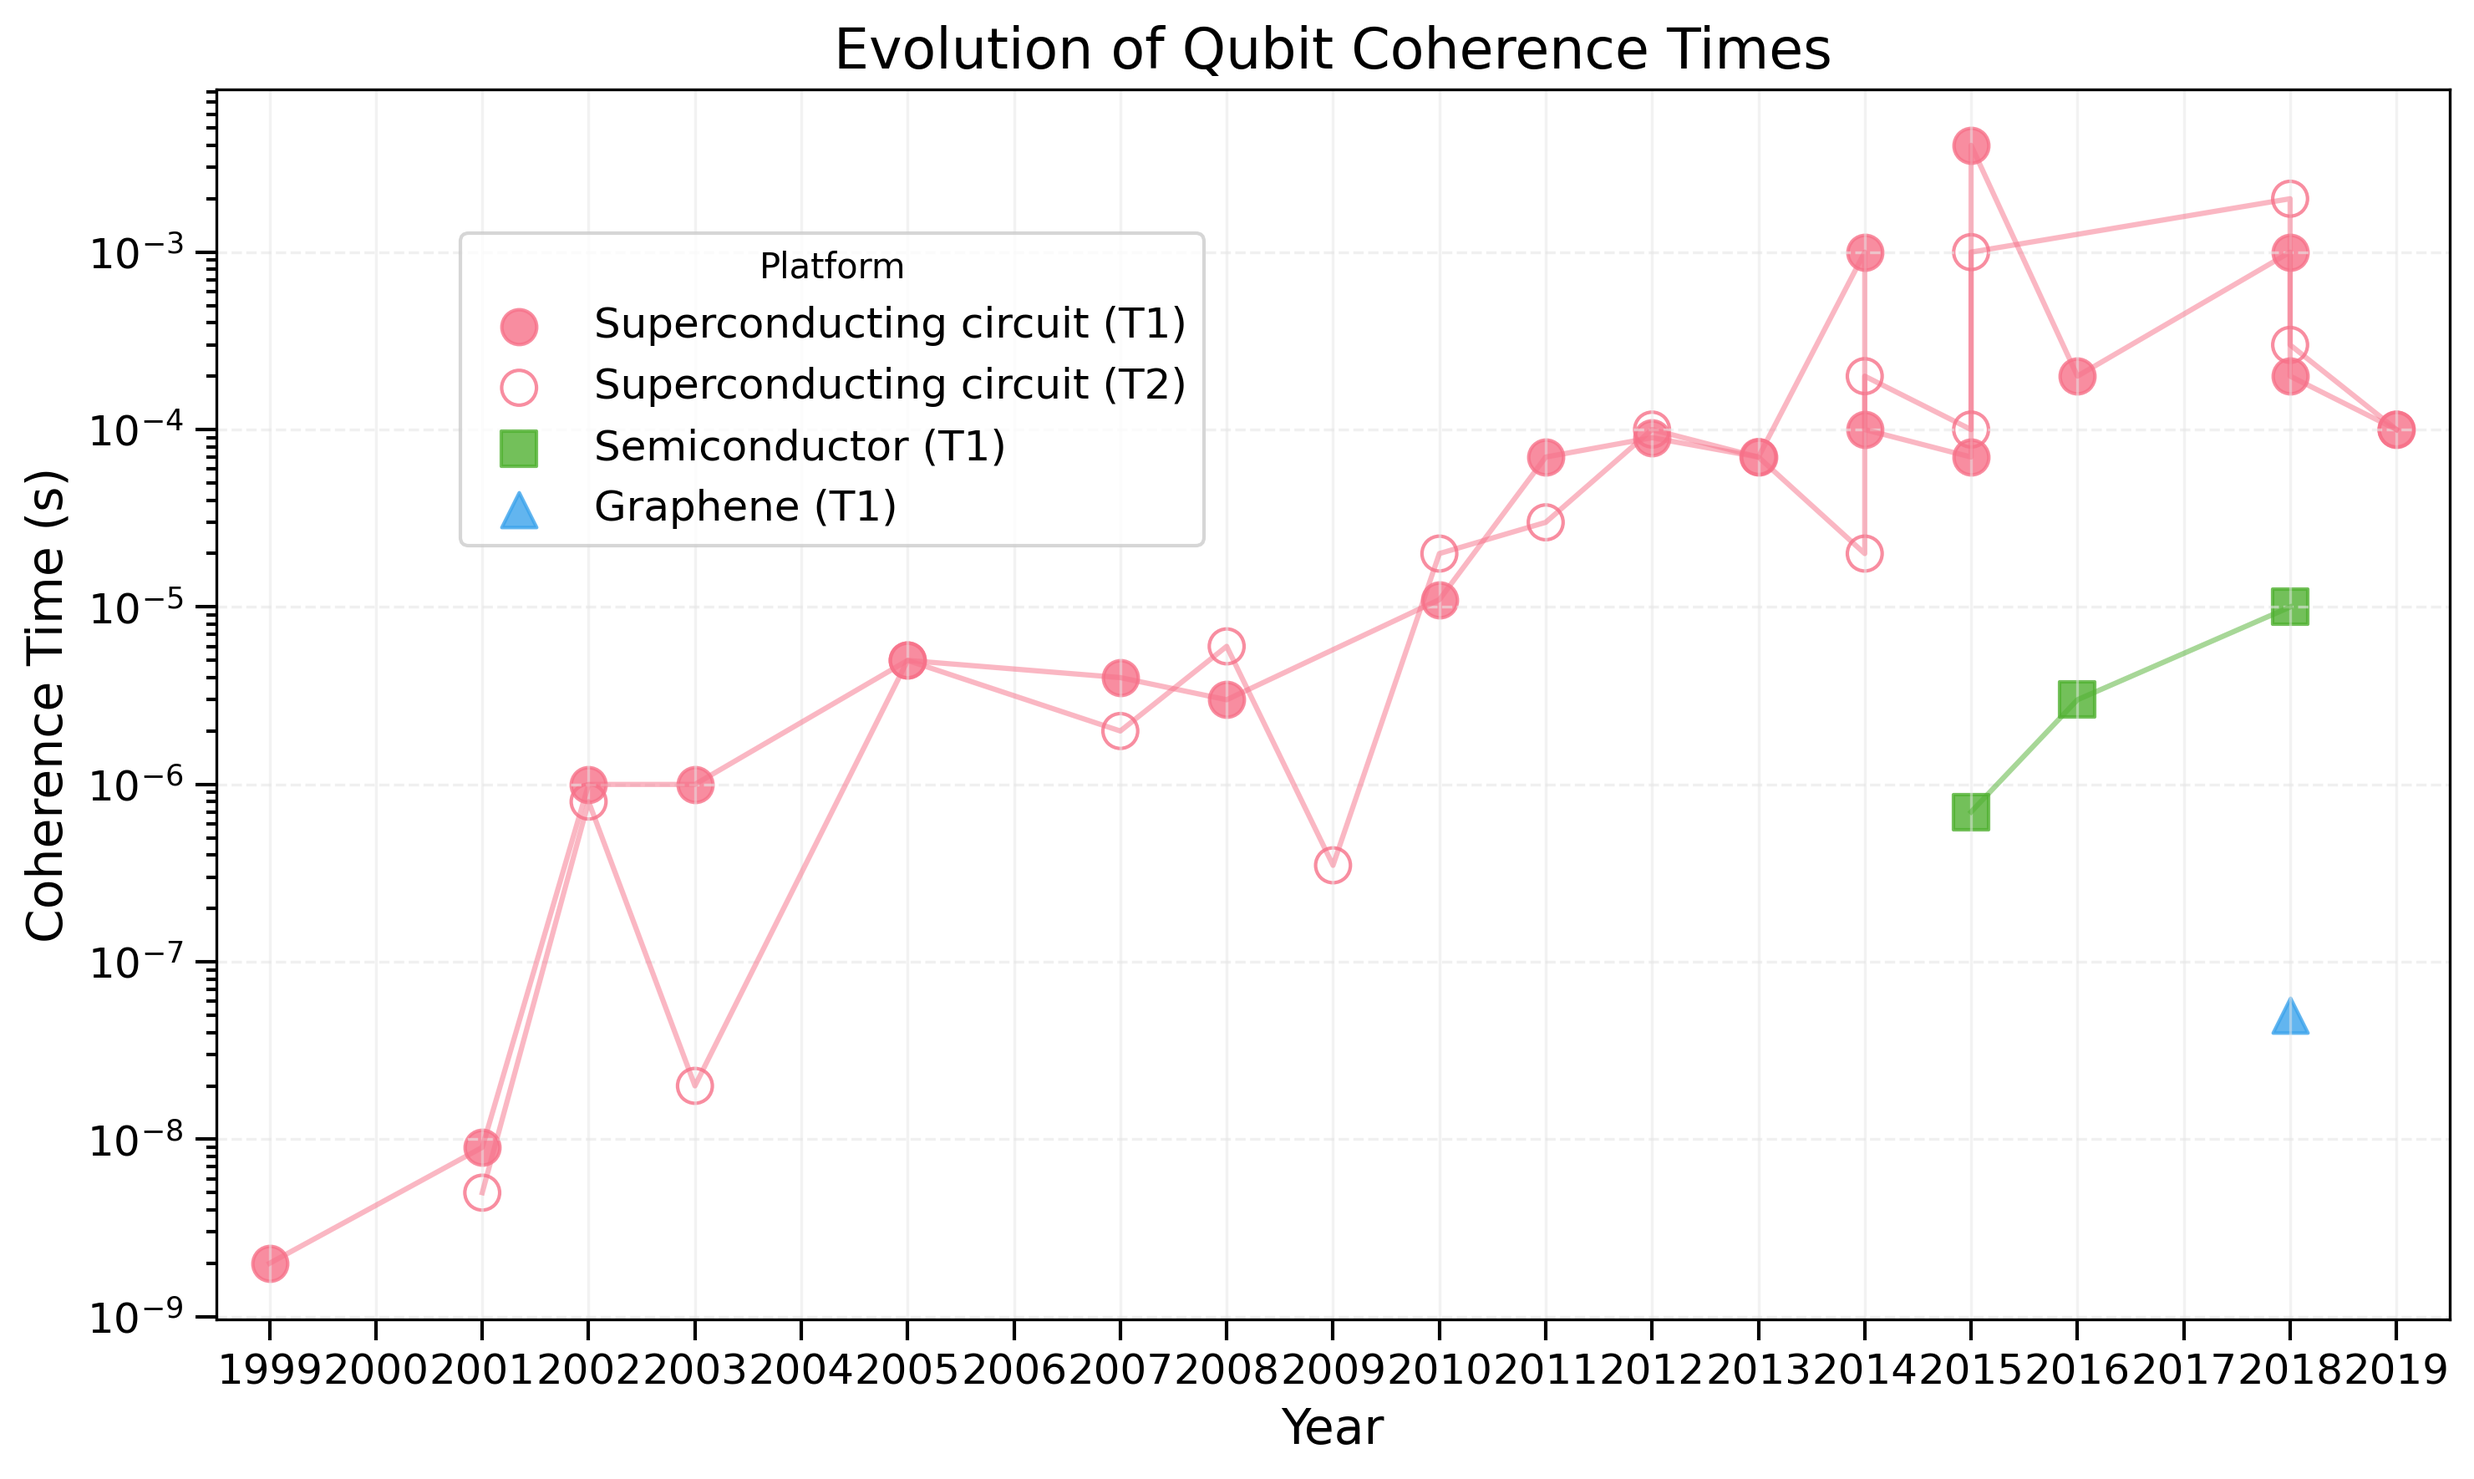
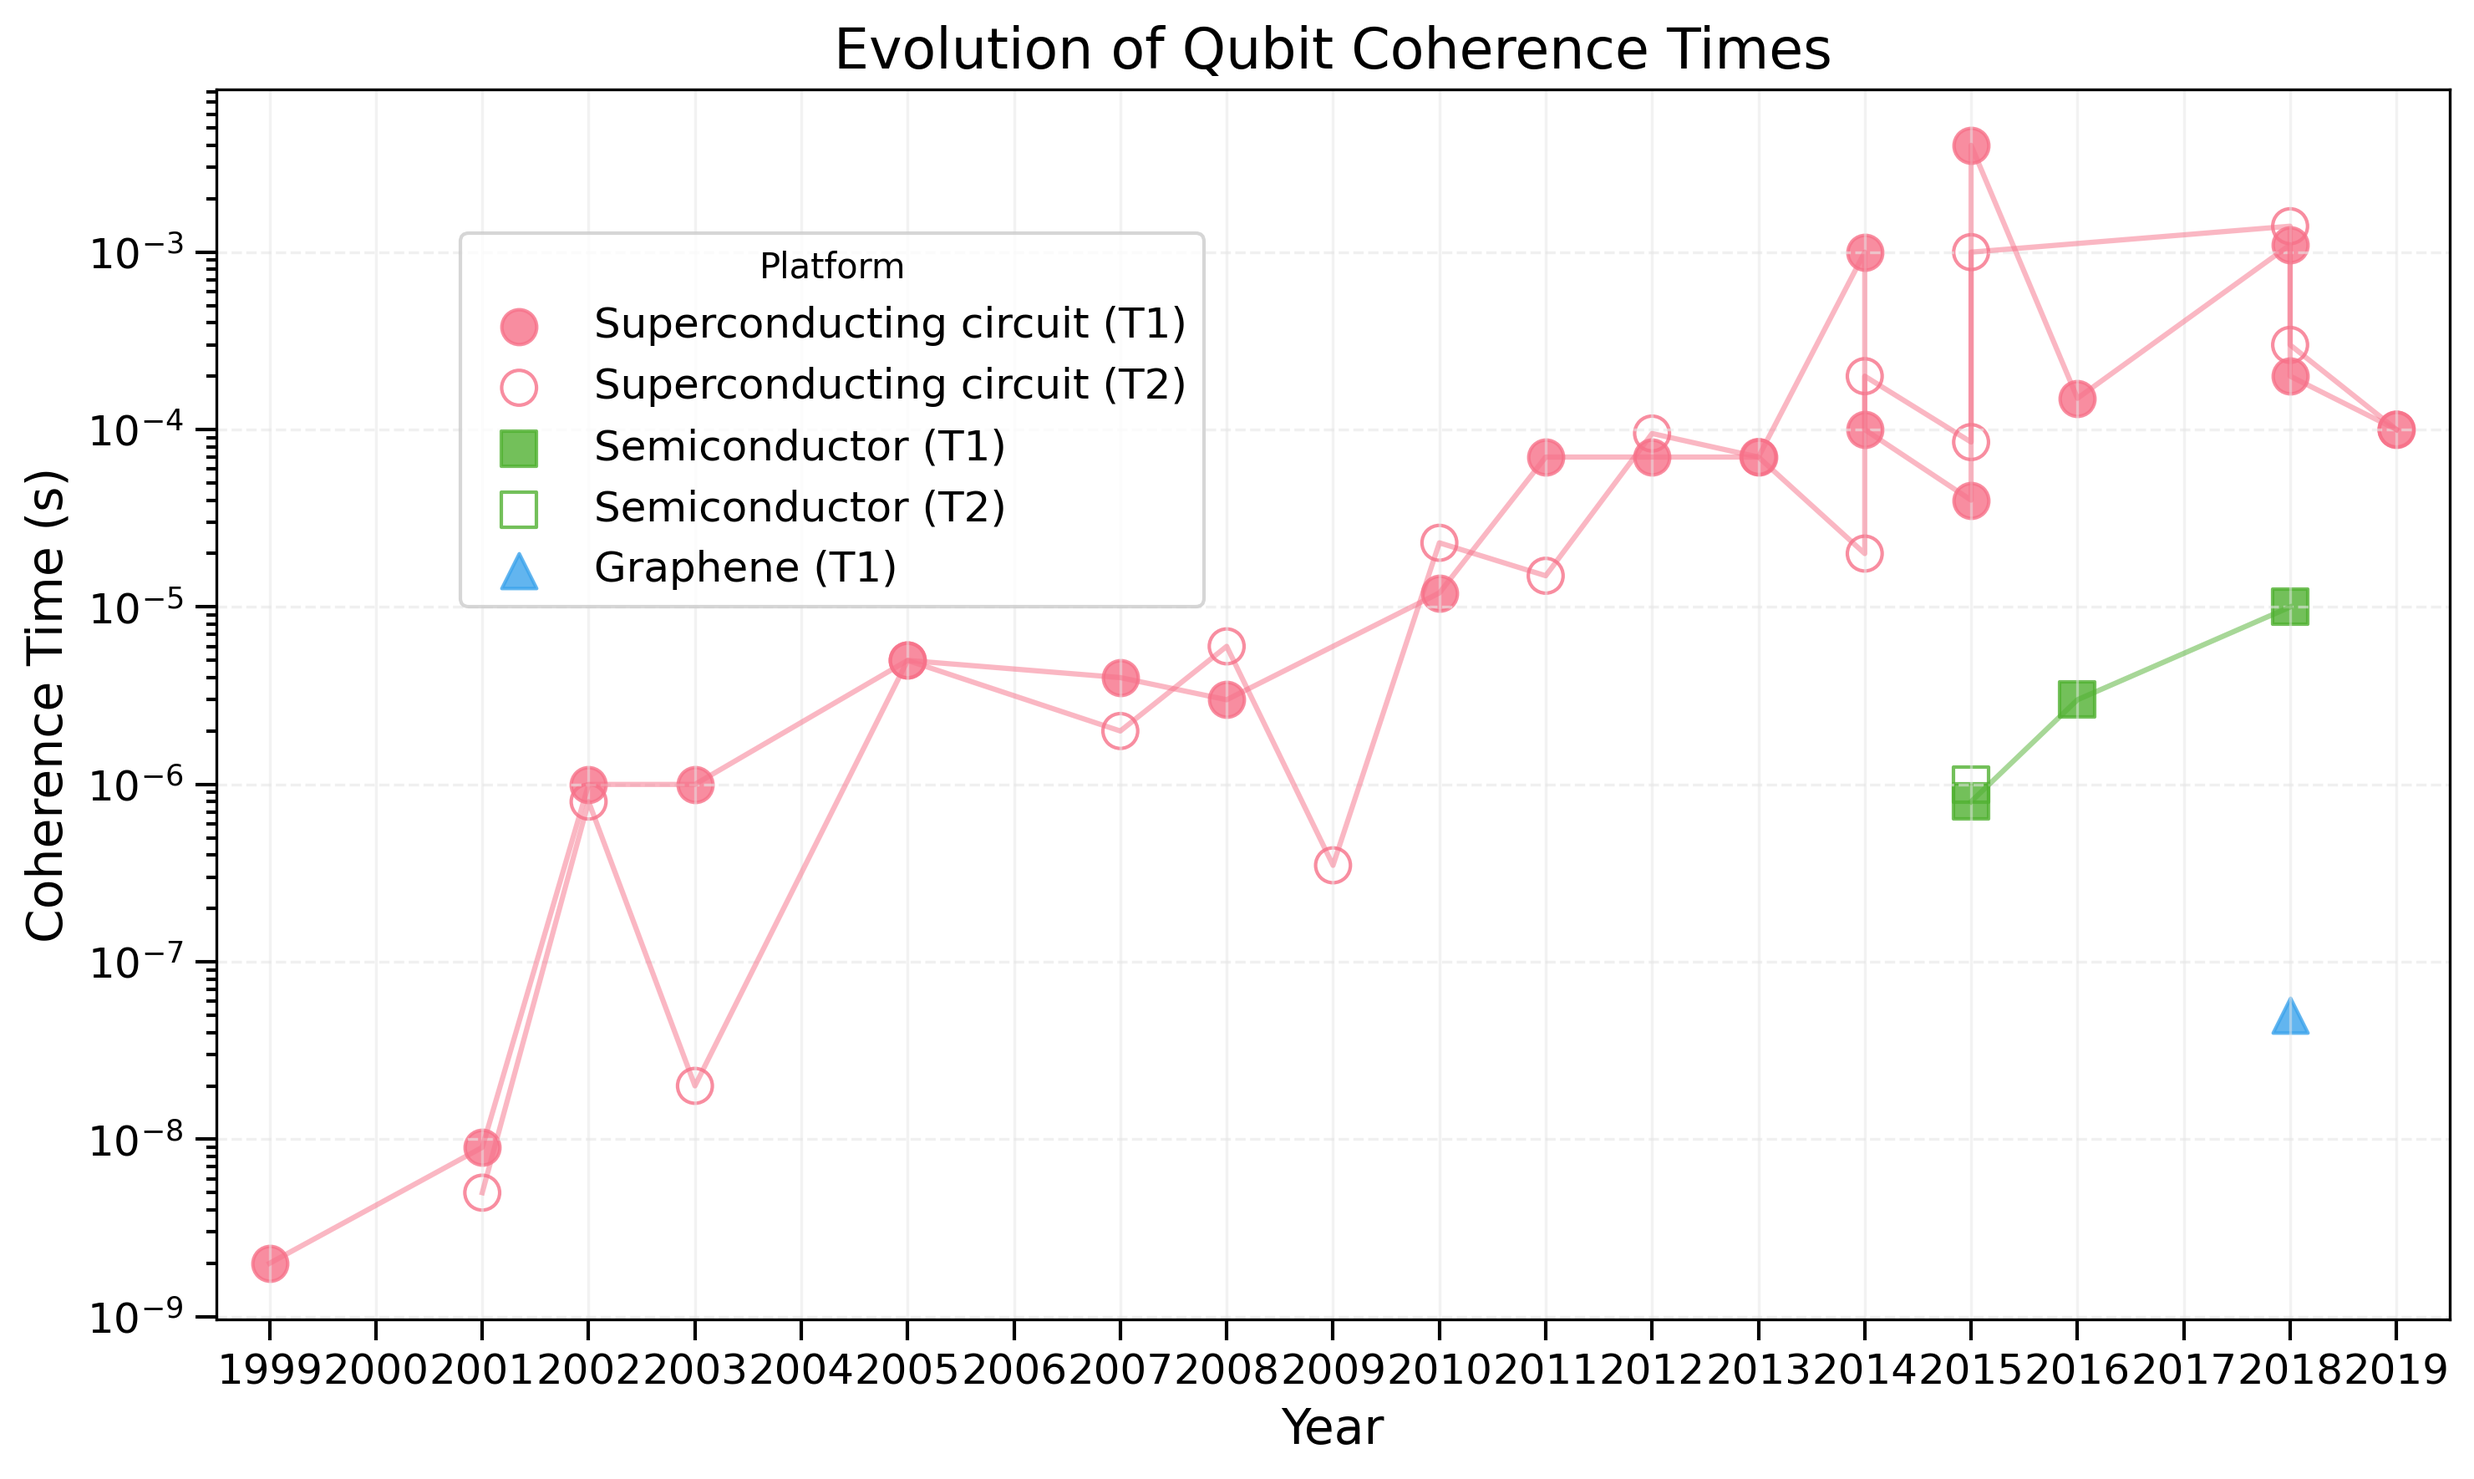
jekyll build from Action f7fac90ba4c098ca78a1a25834c8cfcf8a82fa06

diff --git a/README.md b/README.md
@@ -68,7 +68,7 @@ For more detailed information:
 ### Repetition Code
 
 - [Experimental Quantum Error Correction](https://arxiv.org/abs/quant-ph/9802018) (1998) - [3,1,3], d=1 on NMR
-- [Demonstration of Sufficient Control for Two Rounds of Quantum Error Correction in a Solid-State Ensemble Quantum Information Processor](https://arxiv.org/abs/1108.4842) (2011) - [3,1,3], d=1 on NMR
+- [Demonstration of sufficient control for two rounds of quantum error correction in a solid state ensemble quantum information processor](https://arxiv.org/abs/1108.4842) (2011) - [3,1,3], d=1 on NMR
 - [Experimental Repetitive Quantum Error Correction](https://jubarreiro.physics.ucsd.edu/files/Schindler-Science-332-1059-1061.pdf) (2011) - [3,1,3], d=1 on Ion traps
 - [Experimental quantum error correction with high fidelity](https://arxiv.org/abs/1109.4821) (2011) - [3,1,3], d=1 on NMR
 - [Realization of Three-Qubit Quantum Error Correction with Superconducting Circuits](https://arxiv.org/abs/1109.4948) (2012) - [3,1,3], d=1 on Superconducting circuit
@@ -85,7 +85,7 @@ For more detailed information:
 
 ### [[5,1,3]] Perfect Code
 
-- [Benchmarking Quantum Computers: The Five-Qubit Error Correcting Code](https://arxiv.org/abs/quant-ph/0101034) (2001) - [[5,1,3]] on NMR
+- [Implementation of the Five Qubit Error Correction Benchmark](https://arxiv.org/abs/quant-ph/0101034) (2001) - [[5,1,3]] on NMR
 - [Experimental implementation of encoded logical qubit operations in a perfect quantum error correcting code](https://arxiv.org/abs/1208.4797) (2012) - [[5,1,3]] on NMR
 - [Experimental exploration of five-qubit quantum error correcting code with superconducting qubits](https://arxiv.org/abs/1907.04507) (2019) - [[5,1,3]] on Superconducting circuit
 
@@ -171,17 +171,17 @@ For more detailed information:
 
 ### Ion traps
 
-- [Experimental Demonstration of a Controlled-NOT Quantum Gate](https://arxiv.org/abs/quant-ph/9806012) (1998) - 0.3 on Ion traps
+- [Deterministic entanglement of two trapped ions](https://arxiv.org/abs/quant-ph/9806012) (1998) - 0.3 on Ion traps
 - [Experimental Entanglement of Four Particles](https://www.nature.com/articles/35005011) (2000) - 0.2 on Ion traps
 - [Experimental Violation of a Bell's Inequality with Efficient Detection](https://www.nature.com/articles/35057215) (2001) - 0.1 on Ion traps
-- [Experimental Demonstration of a Robust, High-Fidelity Geometric Two Ion-Quibit Phase Gate](https://www.nature.com/articles/nature01492) (2003) - 0.03 on Ion traps
+- [Experimental demonstration of a robust, high-fidelity geometric two ion-qubit phase gate](https://www.nature.com/articles/nature01492) (2003) - 0.03 on Ion traps
 - [Towards Fault-Tolerant Quantum Computing with Trapped Ions](https://arxiv.org/abs/0803.2798) (2008) - 0.007 on Ion traps
-- [High-Fidelity Quantum Logic Gates Using Trapped Ions](https://arxiv.org/abs/1512.04600) (2016) - 0.0008 on Ion traps
-- [High-Fidelity Universal Gate Set for Be+ Ion Qubits](https://arxiv.org/abs/1604.00032) (2016) - 0.0005 on Ion traps
+- [High-Fidelity Universal Gate Set for $^9$Be$^+$ Ion Qubits](https://arxiv.org/abs/1604.00032) (2016) - 0.0005 on Ion traps
+- [High-fidelity quantum logic gates using trapped-ion hyperfine qubits](https://arxiv.org/abs/1512.04600) (2016) - 0.0008 on Ion traps
 
 ### Superconducting circuits
 
-- [Measurement-Based Quantum Computation with Superconducting Qubits](https://www.science.org/doi/10.1126/science.1130886) (2006) - 0.3 on Superconducting circuits
+- [Measurement of the Entanglement of Two Superconducting Qubits via State Tomography](https://www.science.org/doi/10.1126/science.1130886) (2006) - 0.3 on Superconducting circuits
 - [Demonstration of Two-Qubit Algorithms with a Superconducting Quantum Processor](https://arxiv.org/abs/0903.2030) (2009) - 0.05 on Superconducting circuits
 - [Complete universal quantum gate set approaching fault-tolerant thresholds with superconducting qubits](https://arxiv.org/abs/1202.5344) (2012) - 0.02 on Superconducting circuits
 - [Logic gates at the surface code threshold: Superconducting qubits poised for fault-tolerant quantum computing](https://arxiv.org/abs/1402.4848) (2014) - 0.006 on Superconducting circuits
@@ -240,35 +240,35 @@ For more detailed information:
 ### Superconducting circuit
 
 - [Coherent control of macroscopic quantum states in a single-Cooper-pair box](https://arxiv.org/abs/cond-mat/9904003v1) (1999) - Cooper-pair box, T1: 2e-09s on Superconducting circuit
-- Cooper-pair box (2001) - Cooper-pair box, T1: 9e-09s, T2: 5e-09s on Superconducting circuit
+- [Charge echo in a Cooper-pair box](https://arxiv.org/abs/cond-mat/0111402) (2001) - Cooper-pair box, T1: 9e-09s, T2: 5e-09s on Superconducting circuit
 - [Manipulating the Quantum State of an Electrical Circuit](https://arxiv.org/abs/cond-mat/0205343) (2002) - Quantronium, T1: 1e-06s, T2: 8e-07s on Superconducting circuit
-- Flux qubit (2003) - Flux qubit, T1: 1e-06s, T2: 2e-08s on Superconducting circuit
-- Flux qubit (2005) - Flux qubit, T1: 5e-06s, T2: 5e-06s on Superconducting circuit
-- [Suppressing Charge Noise Decoherence in Superconducting Charge Qubits](https://arxiv.org/abs/0712.3581) (2007) - Transmon, T1: 4e-06s, T2: 2e-06s on Superconducting circuit
-- Fock (2D) (2008) - Fock (2D), T1: 3e-06s, T2: 6e-06s on Superconducting circuit
+- [Coherent Quantum Dynamics of a Superconducting Flux Qubit](https://arxiv.org/abs/cond-mat/0305461) (2003) - Flux qubit, T1: 1e-06s, T2: 2e-08s on Superconducting circuit
+- [Dephasing of a superconducting qubit induced by photon noise](https://arxiv.org/abs/cond-mat/0512428) (2005) - Flux qubit, T1: 5e-06s, T2: 5e-06s on Superconducting circuit
+- [Controlling the spontaneous emission of a superconducting transmon qubit](https://arxiv.org/abs/0803.4490) (2007) - Transmon, T1: 4e-06s, T2: 2e-06s on Superconducting circuit
+- [Measurement of the decay of Fock states in a superconducting quantum circuit](https://arxiv.org/abs/0808.3279) (2008) - Fock (2D), T1: 3e-06s, T2: 6e-06s on Superconducting circuit
 - [Fluxonium: single Cooper pair circuit free of charge offsets](https://arxiv.org/abs/0906.0831) (2009) - Fluxonium, T2: 3.5e-07s on Superconducting circuit
-- Flux qubit (2010) - Flux qubit, T1: 1.1e-05s, T2: 2e-05s on Superconducting circuit
-- Transmon (3D) (2011) - Transmon (3D), T1: 7e-05s, T2: 3e-05s on Superconducting circuit
-- Transmon (3D) (2012) - Transmon (3D), T1: 9e-05s, T2: 0.0001s on Superconducting circuit
-- Transmon (2013) - Transmon, T1: 7e-05s, T2: 7e-05s on Superconducting circuit
-- Fluxonium (3D) (2014) - Fluxonium (3D), T1: 0.001s, T2: 2e-05s on Superconducting circuit
-- Transmon (3D) (2014) - Transmon (3D), T1: 0.0001s, T2: 0.0002s on Superconducting circuit
-- C-sh. flux qubit (2015) - C-sh. flux qubit, T1: 7e-05s, T2: 0.0001s on Superconducting circuit
-- Fock (3D) (2015) - Fock (3D), T1: 0.004s, T2: 0.001s on Superconducting circuit
-- Cat encoding (2016) - Cat encoding, T1: 0.0002s on Superconducting circuit
-- Fock (3D) (2018) - Fock (3D), T1: 0.001s, T2: 0.002s on Superconducting circuit
-- Fluxonium (3D) (2018) - Fluxonium (3D), T1: 0.0002s, T2: 0.0003s on Superconducting circuit
-- Binomial encoding (2019) - Binomial encoding, T1: 0.0001s, T2: 0.0001s on Superconducting circuit
+- [Dynamical decoupling and noise spectroscopy with a superconducting flux qubit](https://arxiv.org/abs/1101.4707) (2010) - Flux qubit, T1: 1.2e-05s, T2: 2.3e-05s on Superconducting circuit
+- [Observation of high coherence in Josephson junction qubits measured in a three-dimensional circuit QED architecture](https://arxiv.org/abs/1105.4652) (2011) - Transmon (3D), T1: 7e-05s, T2: 1.5e-05s on Superconducting circuit
+- [Superconducting qubit in waveguide cavity with coherence time approaching 0.1ms](https://arxiv.org/abs/1202.5533) (2012) - Transmon (3D), T1: 7e-05s, T2: 9.5e-05s on Superconducting circuit
+- [Improved superconducting qubit coherence using titanium nitride](https://arxiv.org/abs/1303.4071) (2013) - Transmon, T1: 7e-05s, T2: 7e-05s on Superconducting circuit
+- [Coherent suppression of electromagnetic dissipation due to superconducting quasiparticles](https://www.nature.com/articles/nature13017) (2014) - Fluxonium (3D), T1: 0.001s, T2: 2e-05s on Superconducting circuit
+- [Thermal and Residual Excited-State Population in a 3D Transmon Qubit](https://arxiv.org/abs/1412.2772) (2014) - Transmon (3D), T1: 0.0001s, T2: 0.0002s on Superconducting circuit
+- [A Schrodinger Cat Living in Two Boxes](https://arxiv.org/abs/1601.05505) (2015) - Fock (3D), T1: 0.004s, T2: 0.001s on Superconducting circuit
+- [The Flux Qubit Revisited to Enhance Coherence and Reproducibility](https://arxiv.org/abs/1508.06299) (2015) - C-sh. flux qubit, T1: 4e-05s, T2: 8.5e-05s on Superconducting circuit
+- [Demonstrating Quantum Error Correction that Extends the Lifetime of Quantum Information](https://arxiv.org/abs/1602.04768v1) (2016) - Cat encoding, T1: 0.00015s on Superconducting circuit, The enhanced lifetime of the encoded information is 320µs without any post-selection.
+- [Fault-tolerant detection of a quantum error](https://arxiv.org/abs/1803.00102) (2018) - Fock (3D), T1: 0.0011s, T2: 0.0014s on Superconducting circuit
+- [The high-coherence fluxonium qubit](https://arxiv.org/abs/1810.11006) (2018) - Fluxonium (3D), T1: 0.0002s, T2: 0.0003s on Superconducting circuit
+- [Demonstration of quantum error correction and universal gate set on a binomial bosonic logical qubit](https://arxiv.org/abs/1805.09072) (2019) - Binomial encoding, T1: 0.0001s, T2: 0.0001s on Superconducting circuit, The corrected logical qubit has a lifetime 2.8 times longer than that of its uncorrected counterpart.
 
 ### Semiconductor
 
-- Gatemon (2015) - Gatemon, T1: 7e-07s on Semiconductor
-- Gatemon (2016) - Gatemon, T1: 3e-06s on Semiconductor
-- Gatemon (2018) - Gatemon, T1: 1e-05s on Semiconductor
+- [A Semiconductor Nanowire-Based Superconducting Qubit](https://arxiv.org/abs/1503.08339) (2015) - Gatemon, T1: 8e-07s, T2: 1e-06s on Semiconductor
+- [Gatemon Benchmarking and Two-Qubit Operation](https://arxiv.org/abs/1512.09195) (2016) - Gatemon, T1: 3e-06s on Semiconductor
+- [Evolution of Nanowire Transmons and Their Quantum Coherence in Magnetic Field](https://arxiv.org/abs/1711.07961) (2018) - Gatemon, T1: 1e-05s on Semiconductor
 
 ### Graphene
 
-- Gatemon (2018) - Gatemon, T1: 5e-08s on Graphene
+- [Quantum coherent control of a hybrid superconducting circuit made with graphene-based van der Waals heterostructures](https://arxiv.org/abs/1809.05215) (2018) - Gatemon, T1: 5e-08s on Graphene
 
 
 ## Contributing
